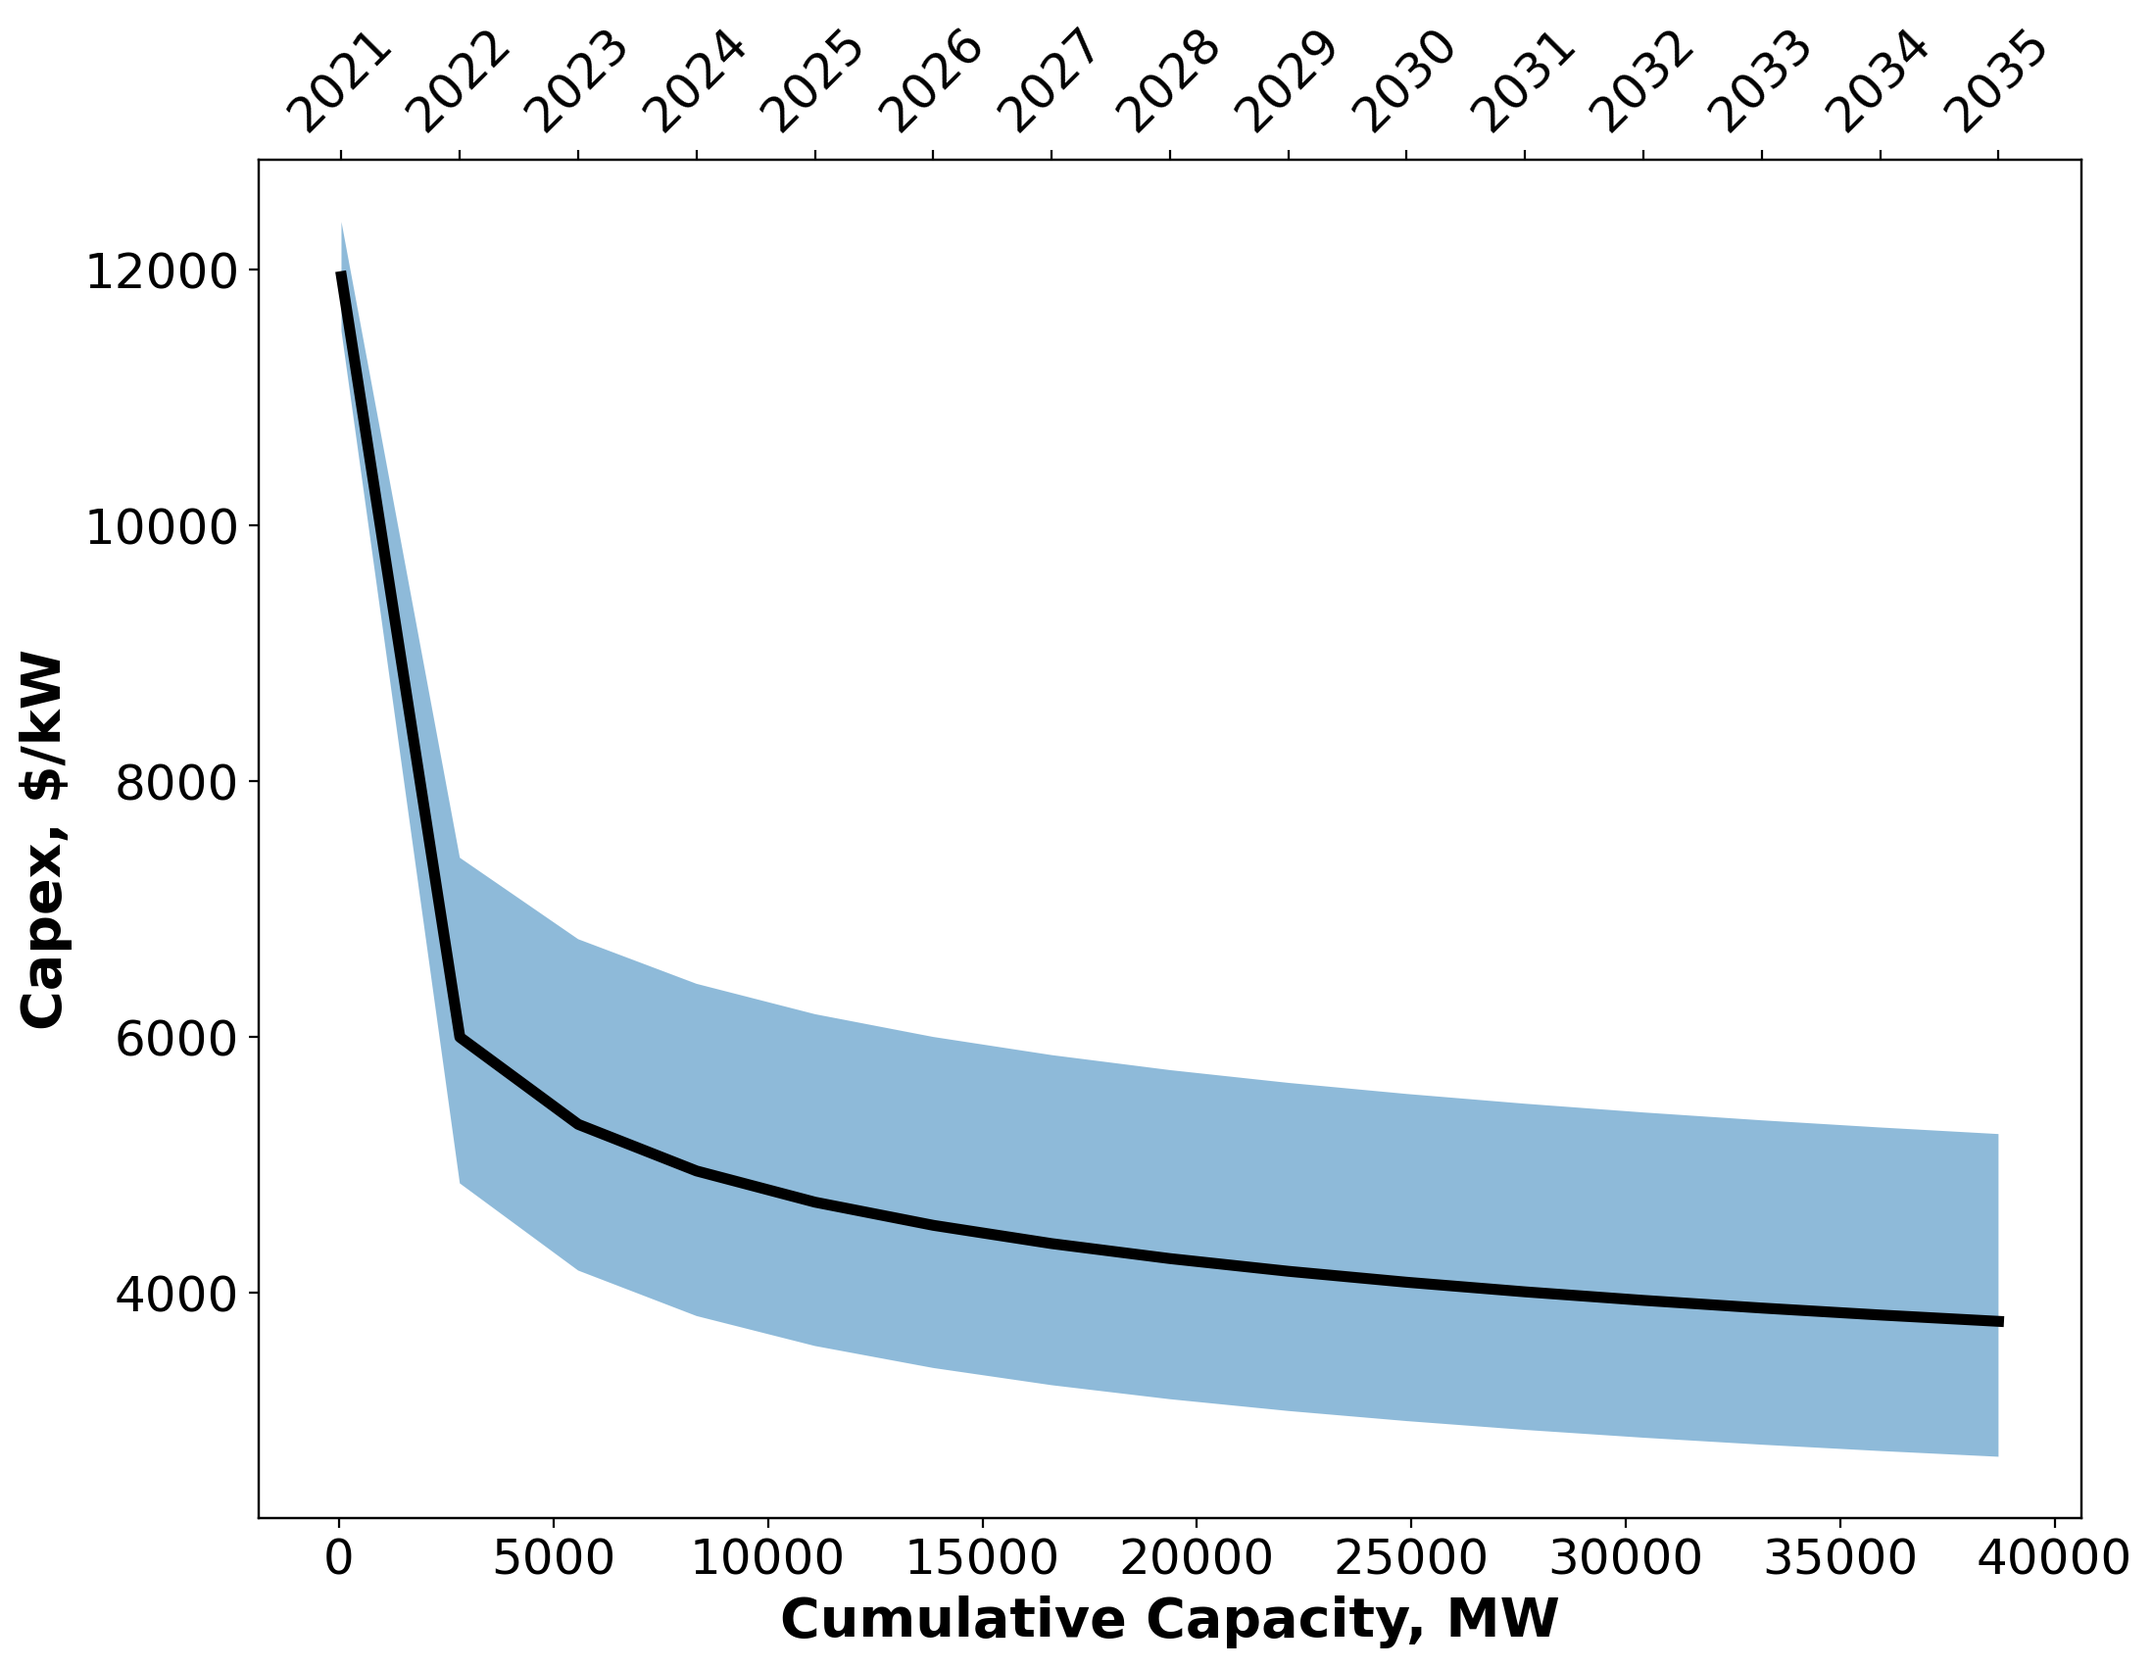
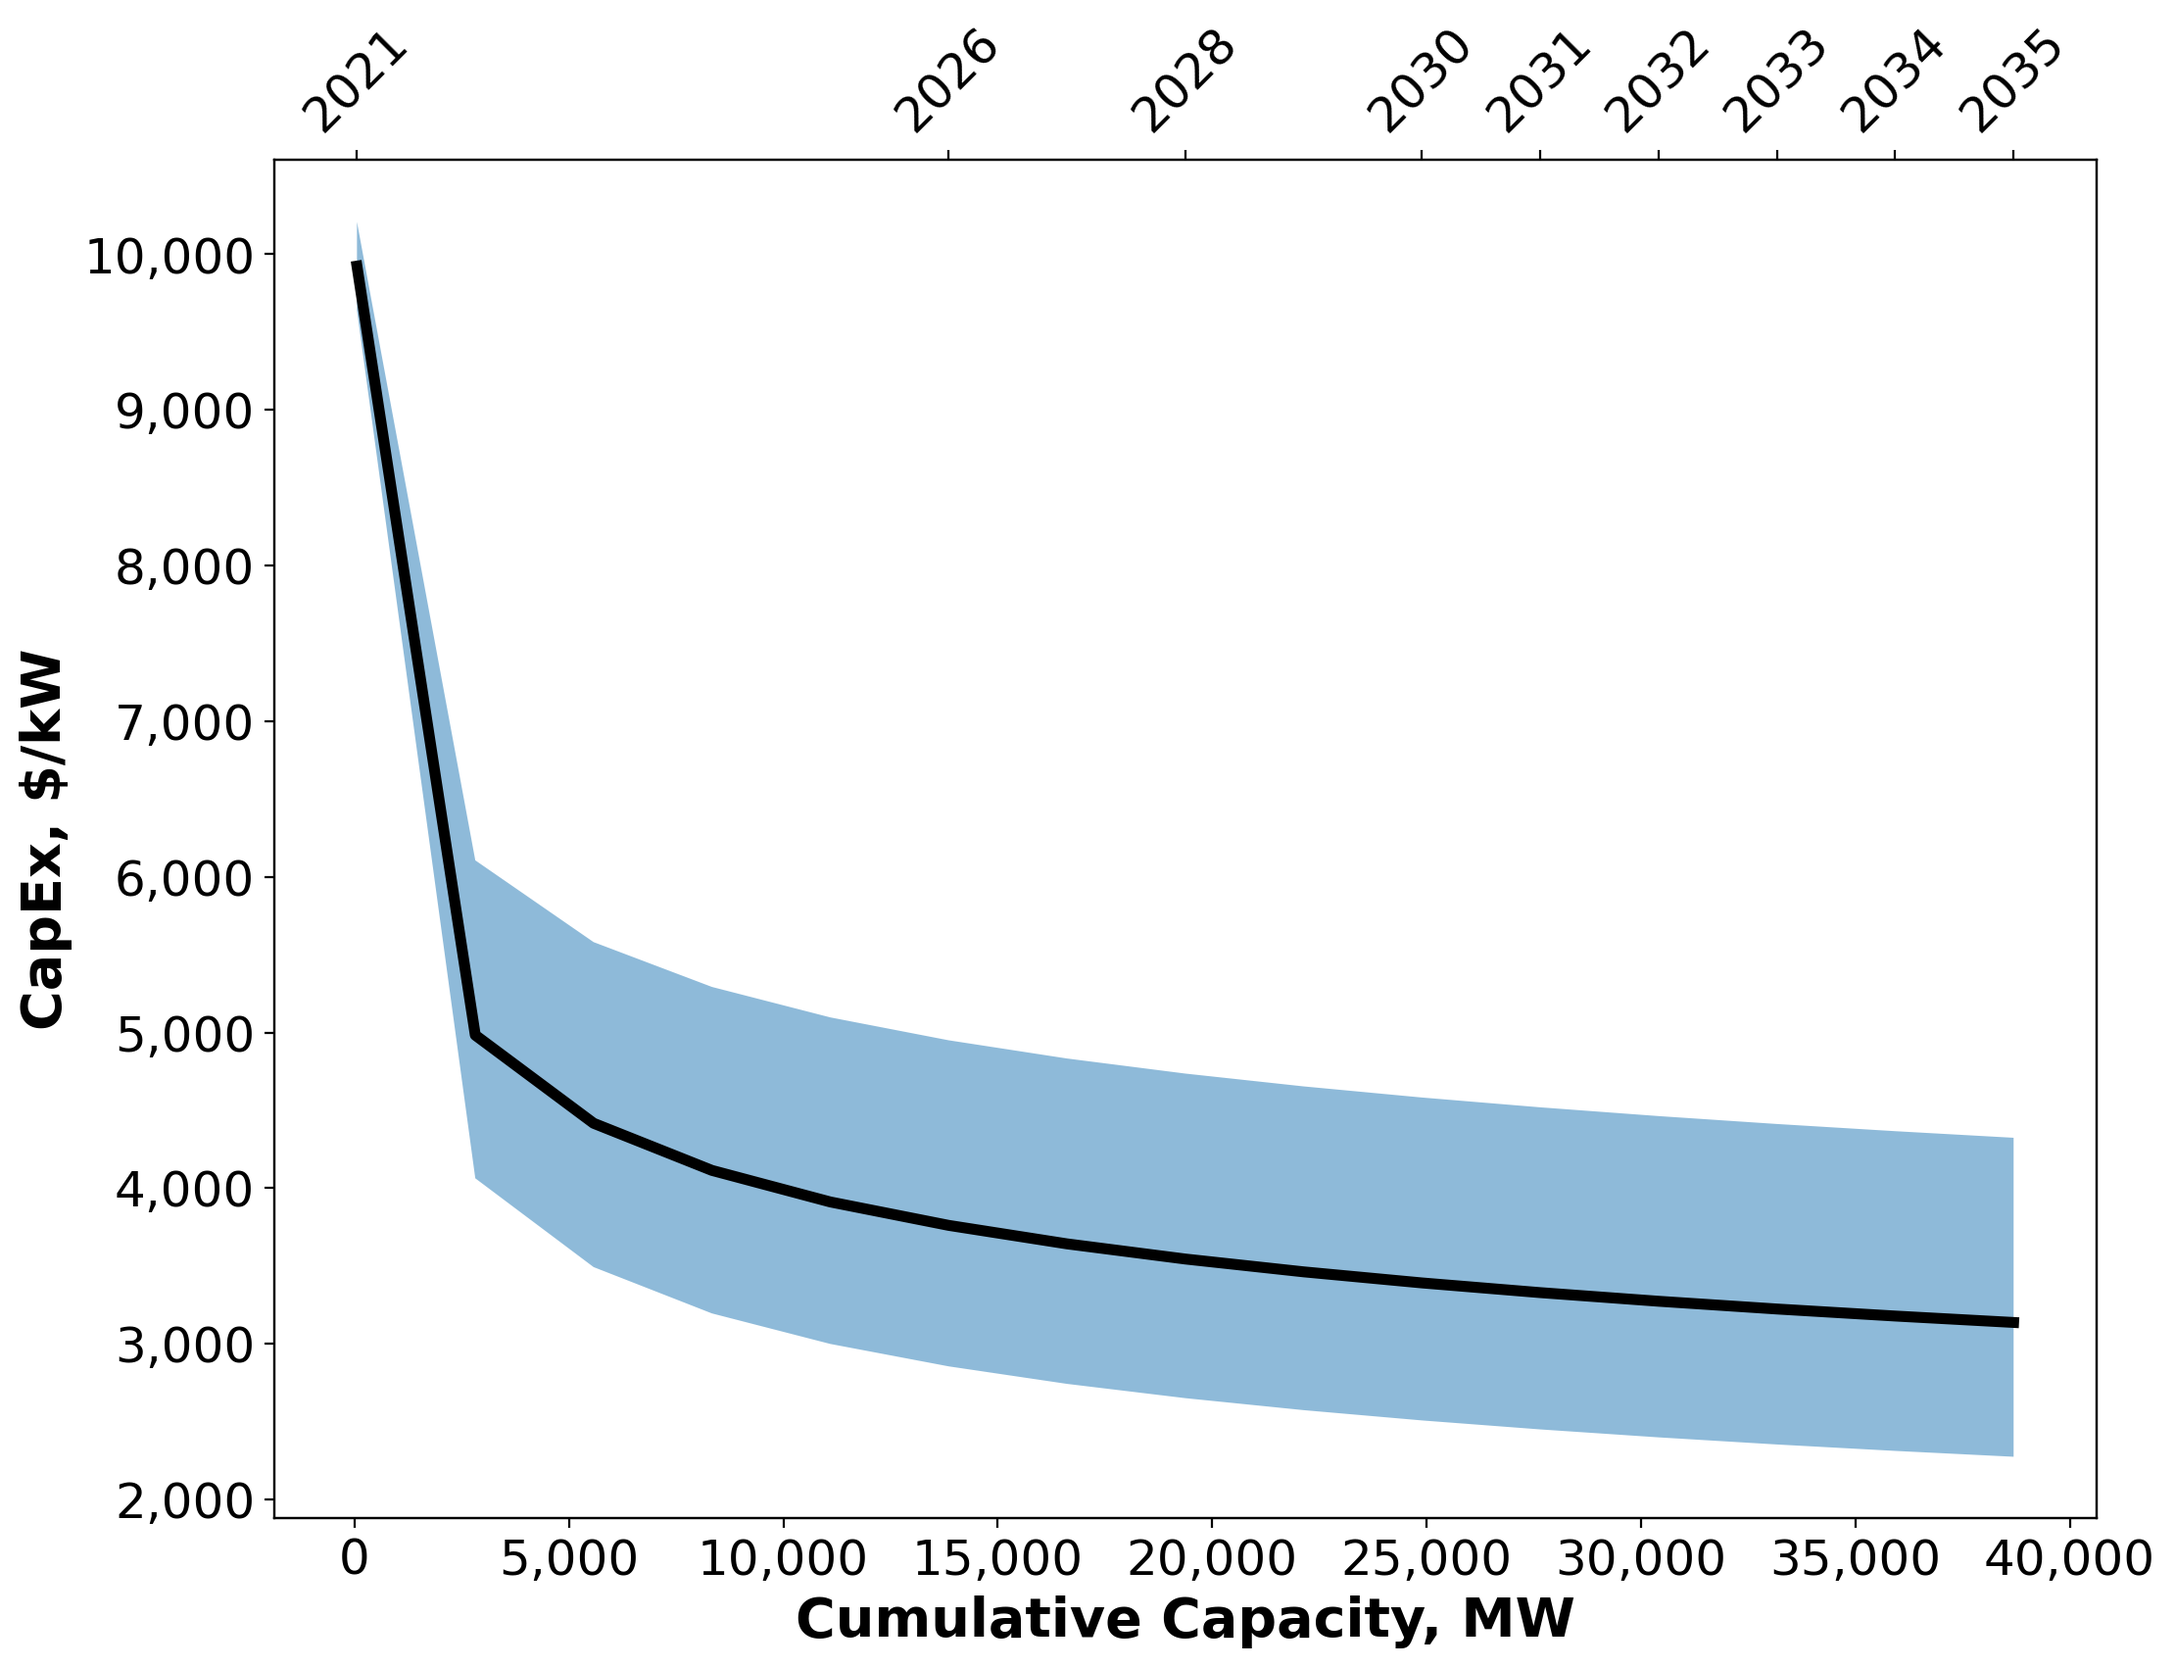
Updated plots for revised FORCE report draft.  Scaled initial floating costs to $10K/kW

diff --git a/analysis/orbit_comparison.py b/analysis/orbit_comparison.py
@@ -26,11 +26,38 @@ initialize_library(LIBRARY)
 
 
 ### Initialize Data
+scenario = 'high cost'
+if scenario == 'baseline':
+    capacity = 'capacity'
+    opex_scale = 1
+    ncf_scale = 1
+    fig_label = 'baseline_deploy'
+elif scenario == 'high':
+    capacity = 'high capacity'
+    opex_scale = 1
+    ncf_scale = 1
+    fig_label = 'high_deploy'
+elif scenario == 'low':
+    capacity = 'low capacity'
+    opex_scale = 1
+    ncf_scale = 1
+    fig_label = 'low_deploy'
+elif scenario == 'low cost':
+    capacity = 'capacity'
+    fig_label = 'low_cost'
+    opex_scale = 0.9
+    ncf_scale = 1.05
+elif scenario == 'high cost':
+    capacity = 'capacity'
+    fig_label = 'high_cost'
+    opex_scale = 1.1
+    ncf_scale = 0.95
+
 ## Forecast
 FORECAST_FP_FIXED = os.path.join(DIR, "data", "2021_fixed_forecast.csv")
-FORECAST_FIXED = pd.read_csv(FORECAST_FP_FIXED).set_index("year").to_dict()["capacity"]
+FORECAST_FIXED = pd.read_csv(FORECAST_FP_FIXED).set_index("year").to_dict()[capacity]
 FORECAST_FP_FLOATING = os.path.join(DIR, "data", "2021_floating_forecast.csv")
-FORECAST_FLOATING = pd.read_csv(FORECAST_FP_FLOATING).set_index("year").to_dict()["capacity"]
+FORECAST_FLOATING = pd.read_csv(FORECAST_FP_FLOATING).set_index("year").to_dict()[capacity]
 
 plot_deployment(list(FORECAST_FIXED.keys()), list(FORECAST_FIXED.values()),
                 list(FORECAST_FLOATING.keys()), list(FORECAST_FLOATING.values()),
@@ -38,7 +65,7 @@ plot_deployment(list(FORECAST_FIXED.keys()), list(FORECAST_FIXED.values()),
                 )
 
 ## Scaling factor for demonstration-scale floating capex
-FLOATING_DEMO_SCALE = 2.6     # Set initial Capex around $10K/kw
+FLOATING_DEMO_SCALE = 2.5     # Set initial Capex around $10K/kw
 FLOATING_CAPACITY_2020 = 91   # Cumulative capacity as of previous year.  From OWMR.
 
 ## Regression Settings
@@ -391,27 +418,33 @@ def regression_and_plot(FORECAST, PROJECTS, FILTERS, TO_AGGREGATE, TO_DROP, PRED
     pd.DataFrame({
         'Year': years,
         'Capex': avg_capex,
+        'Capex (average start and conservative LR)': avg_capex_conservative,
+        'Capex (average start and aggressive LR)': avg_capex_aggressive,
+        'Capex (max start and conservative LR)': max_capex_conservative,
+        'Capex (min start and aggressive LR)': min_capex_aggressive,
         'Capex percent reductions': 1 - avg_capex / avg_capex[0],
         'LCOE': avg_lcoe,
+        'LCOE (max start and conservative LR)': max_lcoe_conservative,
+        'LCOE (min start and aggressive LR)': min_lcoe_aggressive,
         'LCOE percent reductions': 1 - avg_lcoe/ avg_lcoe[0]
-    }).to_csv('results/' + fixfloat + '_data_out.csv')
+    }).to_csv('results/' + fixfloat + '_' + fig_label + '_data_out.csv')
 
 
     ### Plotting
     # Forecast
-    fname_capex = 'results/' + fixfloat + '_capex_forecast_low_deploy.png'
+    fname_capex = 'results/' + fixfloat + '_capex_forecast_' + fig_label + '.png'
     fig_capex, ax_capex = plot_forecast(
         upcoming_capacity,
         avg_capex,
         min_capex_aggressive,
         max_capex_conservative,
         std_start,
-        ylabel='Capex, $/kW',
+        ylabel='CapEx, $/kW',
         fixfloat=fixfloat,
         fname=fname_capex
     )
 
-    fname_lcoe = 'results/' + fixfloat + '_lcoe_forecast_low_deploy.png'
+    fname_lcoe = 'results/' + fixfloat + '_lcoe_forecast_' + fig_label + '.png'
     plot_forecast(
         upcoming_capacity,
         avg_lcoe,
@@ -428,7 +461,7 @@ def regression_and_plot(FORECAST, PROJECTS, FILTERS, TO_AGGREGATE, TO_DROP, PRED
     scatter_plot(res_x, res_y, 'Fitted values (log of CapEx)', 'Residuals', fname=fname_residuals)
 
     # Sensitivities
-    fname_uncert = 'results/' + fixfloat + '_capex_forecast_low_deploy_uncertainty.png'
+    fname_uncert = 'results/' + fixfloat + '_capex_forecast' + fig_label + '_uncertainty.png'
     plot_forecast_comp(
         fig_capex,
         ax_capex,
@@ -437,7 +470,7 @@ def regression_and_plot(FORECAST, PROJECTS, FILTERS, TO_AGGREGATE, TO_DROP, PRED
         avg_capex_aggressive,
         avg_capex_conservative,
         initial_capex_range,
-        ylabel='Capex, $/kW',
+        ylabel='CapEx, $/kW',
         fname=fname_uncert
     )
 
@@ -448,14 +481,8 @@ if __name__ == "__main__":
 
     # Fixed bottom
     regression_and_plot(FORECAST_FIXED, PROJECTS, FILTERS, TO_AGGREGATE, TO_DROP, FIXED_PREDICTORS, ORBIT_FIXED_SITES,
-                        opex_scale=1, ncf_scale=1)
+                        opex_scale=opex_scale, ncf_scale=ncf_scale)
 
     # Floating
     regression_and_plot(FORECAST_FLOATING, PROJECTS, FILTERS, TO_AGGREGATE, TO_DROP, FLOAT_PREDICTORS, ORBIT_FLOATING_SITES,
-                        fixfloat='floating', opex_scale=1, ncf_scale=1)
-
-
-
-    # TODO:
-    #   3. Plots for high/medium/low deployment projectsions
-    #   4.
+                        fixfloat='floating', opex_scale=opex_scale, ncf_scale=ncf_scale)

diff --git a/analysis/plot_routines.py b/analysis/plot_routines.py
@@ -8,6 +8,7 @@ __status__ = "Development"
 import numpy as np
 import pandas as pd
 
+import matplotlib as mpl
 import matplotlib.pyplot as plt
 import matplotlib.text as txt
 import os
@@ -158,6 +159,10 @@ def plot_forecast(forecast, y, y1, y2, y_std, ylabel, fixfloat,
     ax1.fill_between(x, y1, y2, alpha=0.5)
     ax1.set_xlabel(xlabel)
     ax1.set_ylabel(ylabel)
+    ax1.get_xaxis().set_major_formatter(
+            mpl.ticker.FuncFormatter(lambda x, p: format(int(x), ',')))
+    ax1.get_yaxis().set_major_formatter(
+            mpl.ticker.FuncFormatter(lambda x, p: format(int(x), ',')))
 
     ax2.set_xlim(ax1.get_xlim())
     if fixfloat == 'fixed':
@@ -228,6 +233,11 @@ def plot_deployment(x1, y1, x2, y2, fname=None):
 
     ax.set_ylim([0, 300000])
     ax.set_xticks(np.arange(min(x1), max(x1)+1, 2))
+
+    ax.get_xaxis().set_major_formatter(
+            mpl.ticker.FuncFormatter(lambda x, p: format(int(x), ',')))
+    ax.get_yaxis().set_major_formatter(
+            mpl.ticker.FuncFormatter(lambda x, p: format(int(x), ',')))
 
     plt.legend()
 
